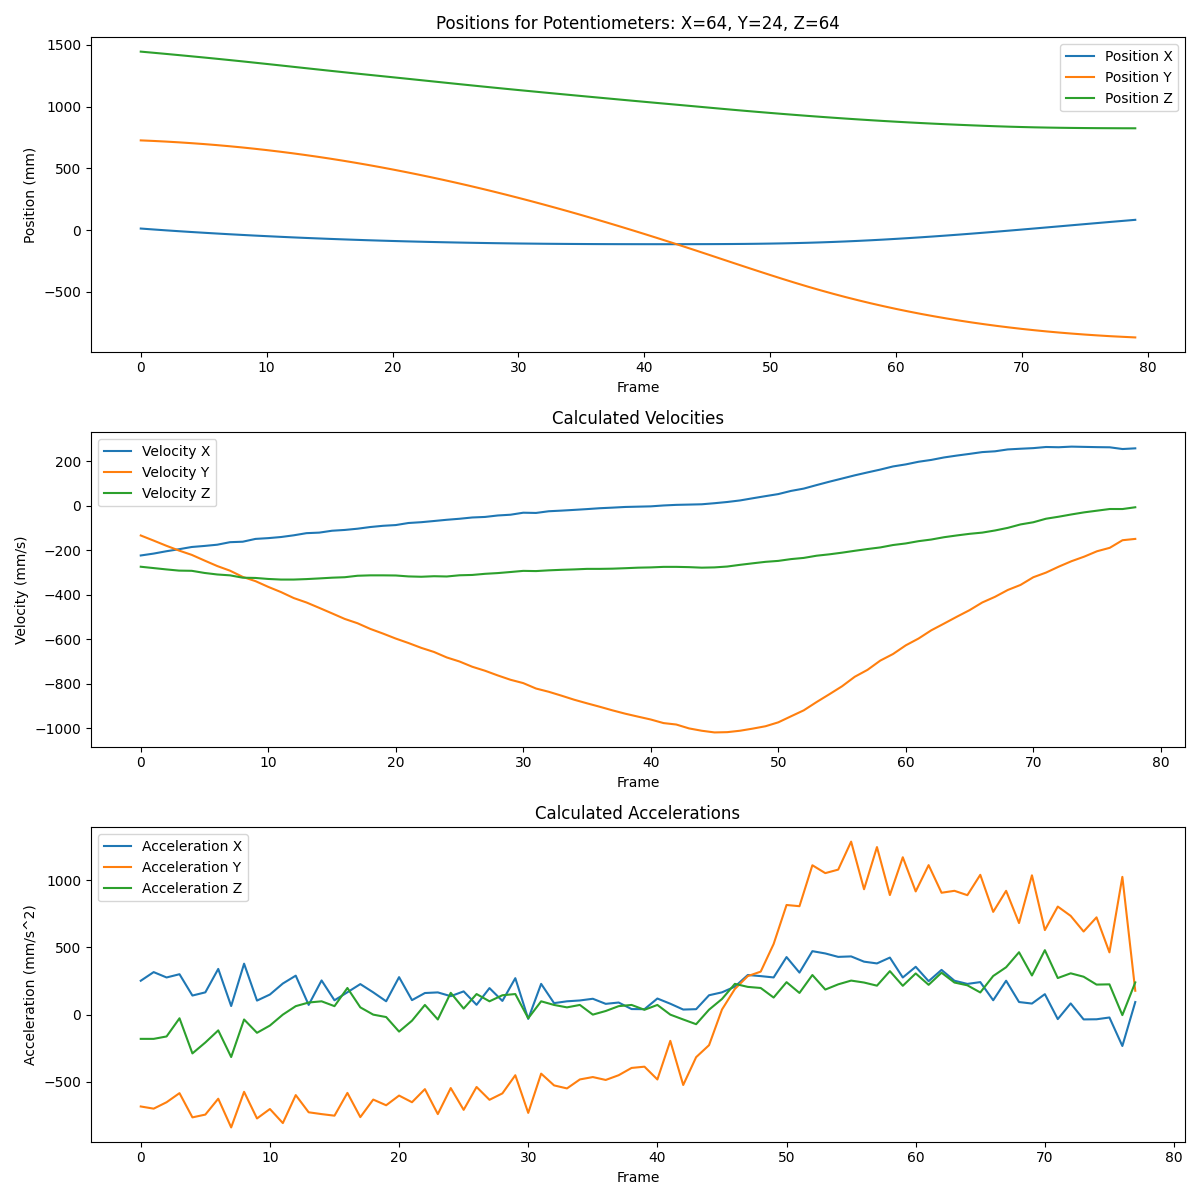
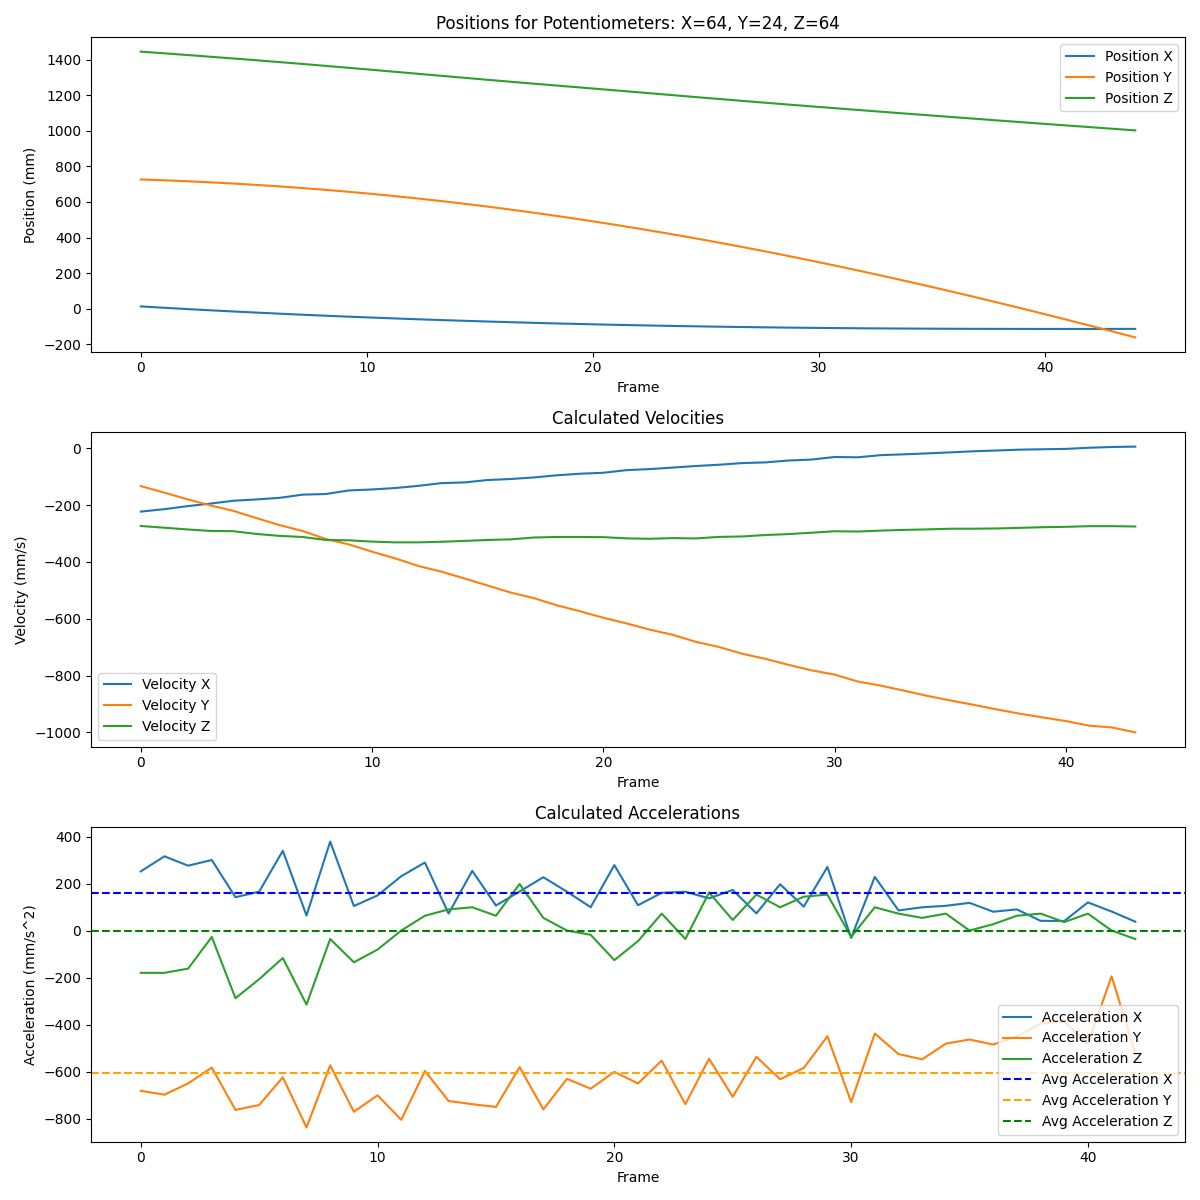
feat(ingest): accelerations.json

diff --git a/ingest.py b/ingest.py
@@ -1,4 +1,5 @@
 import os
+import json
 import pandas as pd
 import numpy as np
 import matplotlib.pyplot as plt
@@ -59,10 +60,12 @@ def extract_position_data_from(
     df = pd.read_csv(
         file_path, skiprows=[0, 1, 2, 4], usecols=["Frame", "TX", "TY", "TZ"]
     )
-    df.set_index('Frame', inplace=True)
+    df.set_index("Frame", inplace=True)
 
     if interpolate:
-        df.interpolate(method='linear', inplace=True) # interpolate missing values-- csv sometimes has blank frames
+        df.interpolate(
+            method="linear", inplace=True
+        )  # interpolate missing values-- csv sometimes has blank frames
 
     if start_frame is not None and end_frame is not None and CUTOFF:
         df = df[start_frame:end_frame]
@@ -116,6 +119,8 @@ def plot_results(data, output_dir):
     if not os.path.exists(output_dir):
         os.makedirs(output_dir)
 
+    result_mapping = {}
+
     for trial in data:
         print(trial)
         positions = trial.positions
@@ -123,6 +128,14 @@ def plot_results(data, output_dir):
         metadata = trial.metadata
 
         accelerations, velocities = calculate_acceleration(positions, metadata.fps)
+        avg_acceleration = np.mean(accelerations, axis=0)
+
+        pot_key = f"{metadata.pot_x:03d}{metadata.pot_y:03d}{metadata.pot_z:03d}"
+        result_mapping[pot_key] = [
+            avg_acceleration[0],
+            avg_acceleration[1],
+            avg_acceleration[2],
+        ]
 
         plt.figure(figsize=(12, 12))
 
@@ -142,6 +155,15 @@ def plot_results(data, output_dir):
         plt.plot(accelerations[:, 0], label="Acceleration X")
         plt.plot(accelerations[:, 1], label="Acceleration Y")
         plt.plot(accelerations[:, 2], label="Acceleration Z")
+        plt.axhline(
+            avg_acceleration[0], color="b", linestyle="--", label="Avg Acceleration X"
+        )
+        plt.axhline(
+            avg_acceleration[1], color="#ffa500", linestyle="--", label="Avg Acceleration Y"
+        )
+        plt.axhline(
+            avg_acceleration[2], color="g", linestyle="--", label="Avg Acceleration Z"
+        )
         plt.title("Calculated Accelerations")
         plt.xlabel("Frame")
         plt.ylabel("Acceleration (mm/s^2)")
@@ -159,6 +181,9 @@ def plot_results(data, output_dir):
         plt.tight_layout()
         plt.savefig(os.path.join(output_dir, f"{repr(metadata)}.png"))
         plt.close()
+
+    with open(f"{output_dir}/accelerations.json", "w") as json_file:
+        json.dump(result_mapping, json_file, indent=4)
 
 
 # Main function
